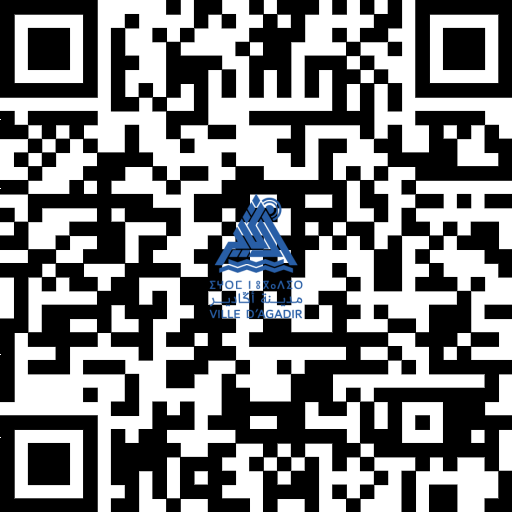
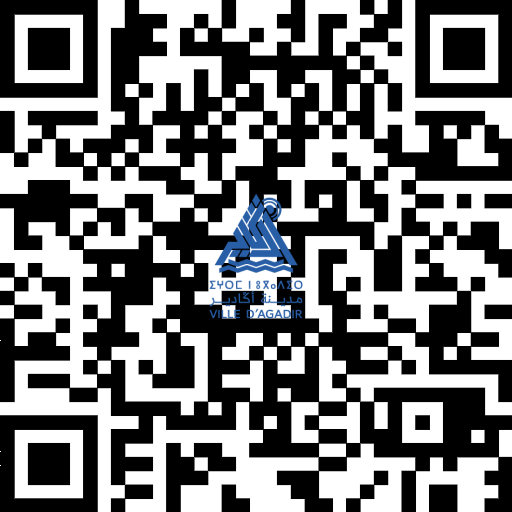
test

diff --git a/app/Http/Controllers/RegistreController.php b/app/Http/Controllers/RegistreController.php
@@ -36,13 +36,13 @@ dd($id);
   }
 
   public function downloadQR($id){
-    
+
     $data = QrCode::size(512)
     ->format('png') 
     ->merge('/public/assets/images/Logo_Agadir.png')
     ->errorCorrection('M')
     ->generate(
-        'http://192.168.100.138:8000/MonSite/GestionnaireStock/Registre'.$id
+        route('Registre.display',$id)
     );
 
     $filename = 'QRcode-' . $id . '.png';
